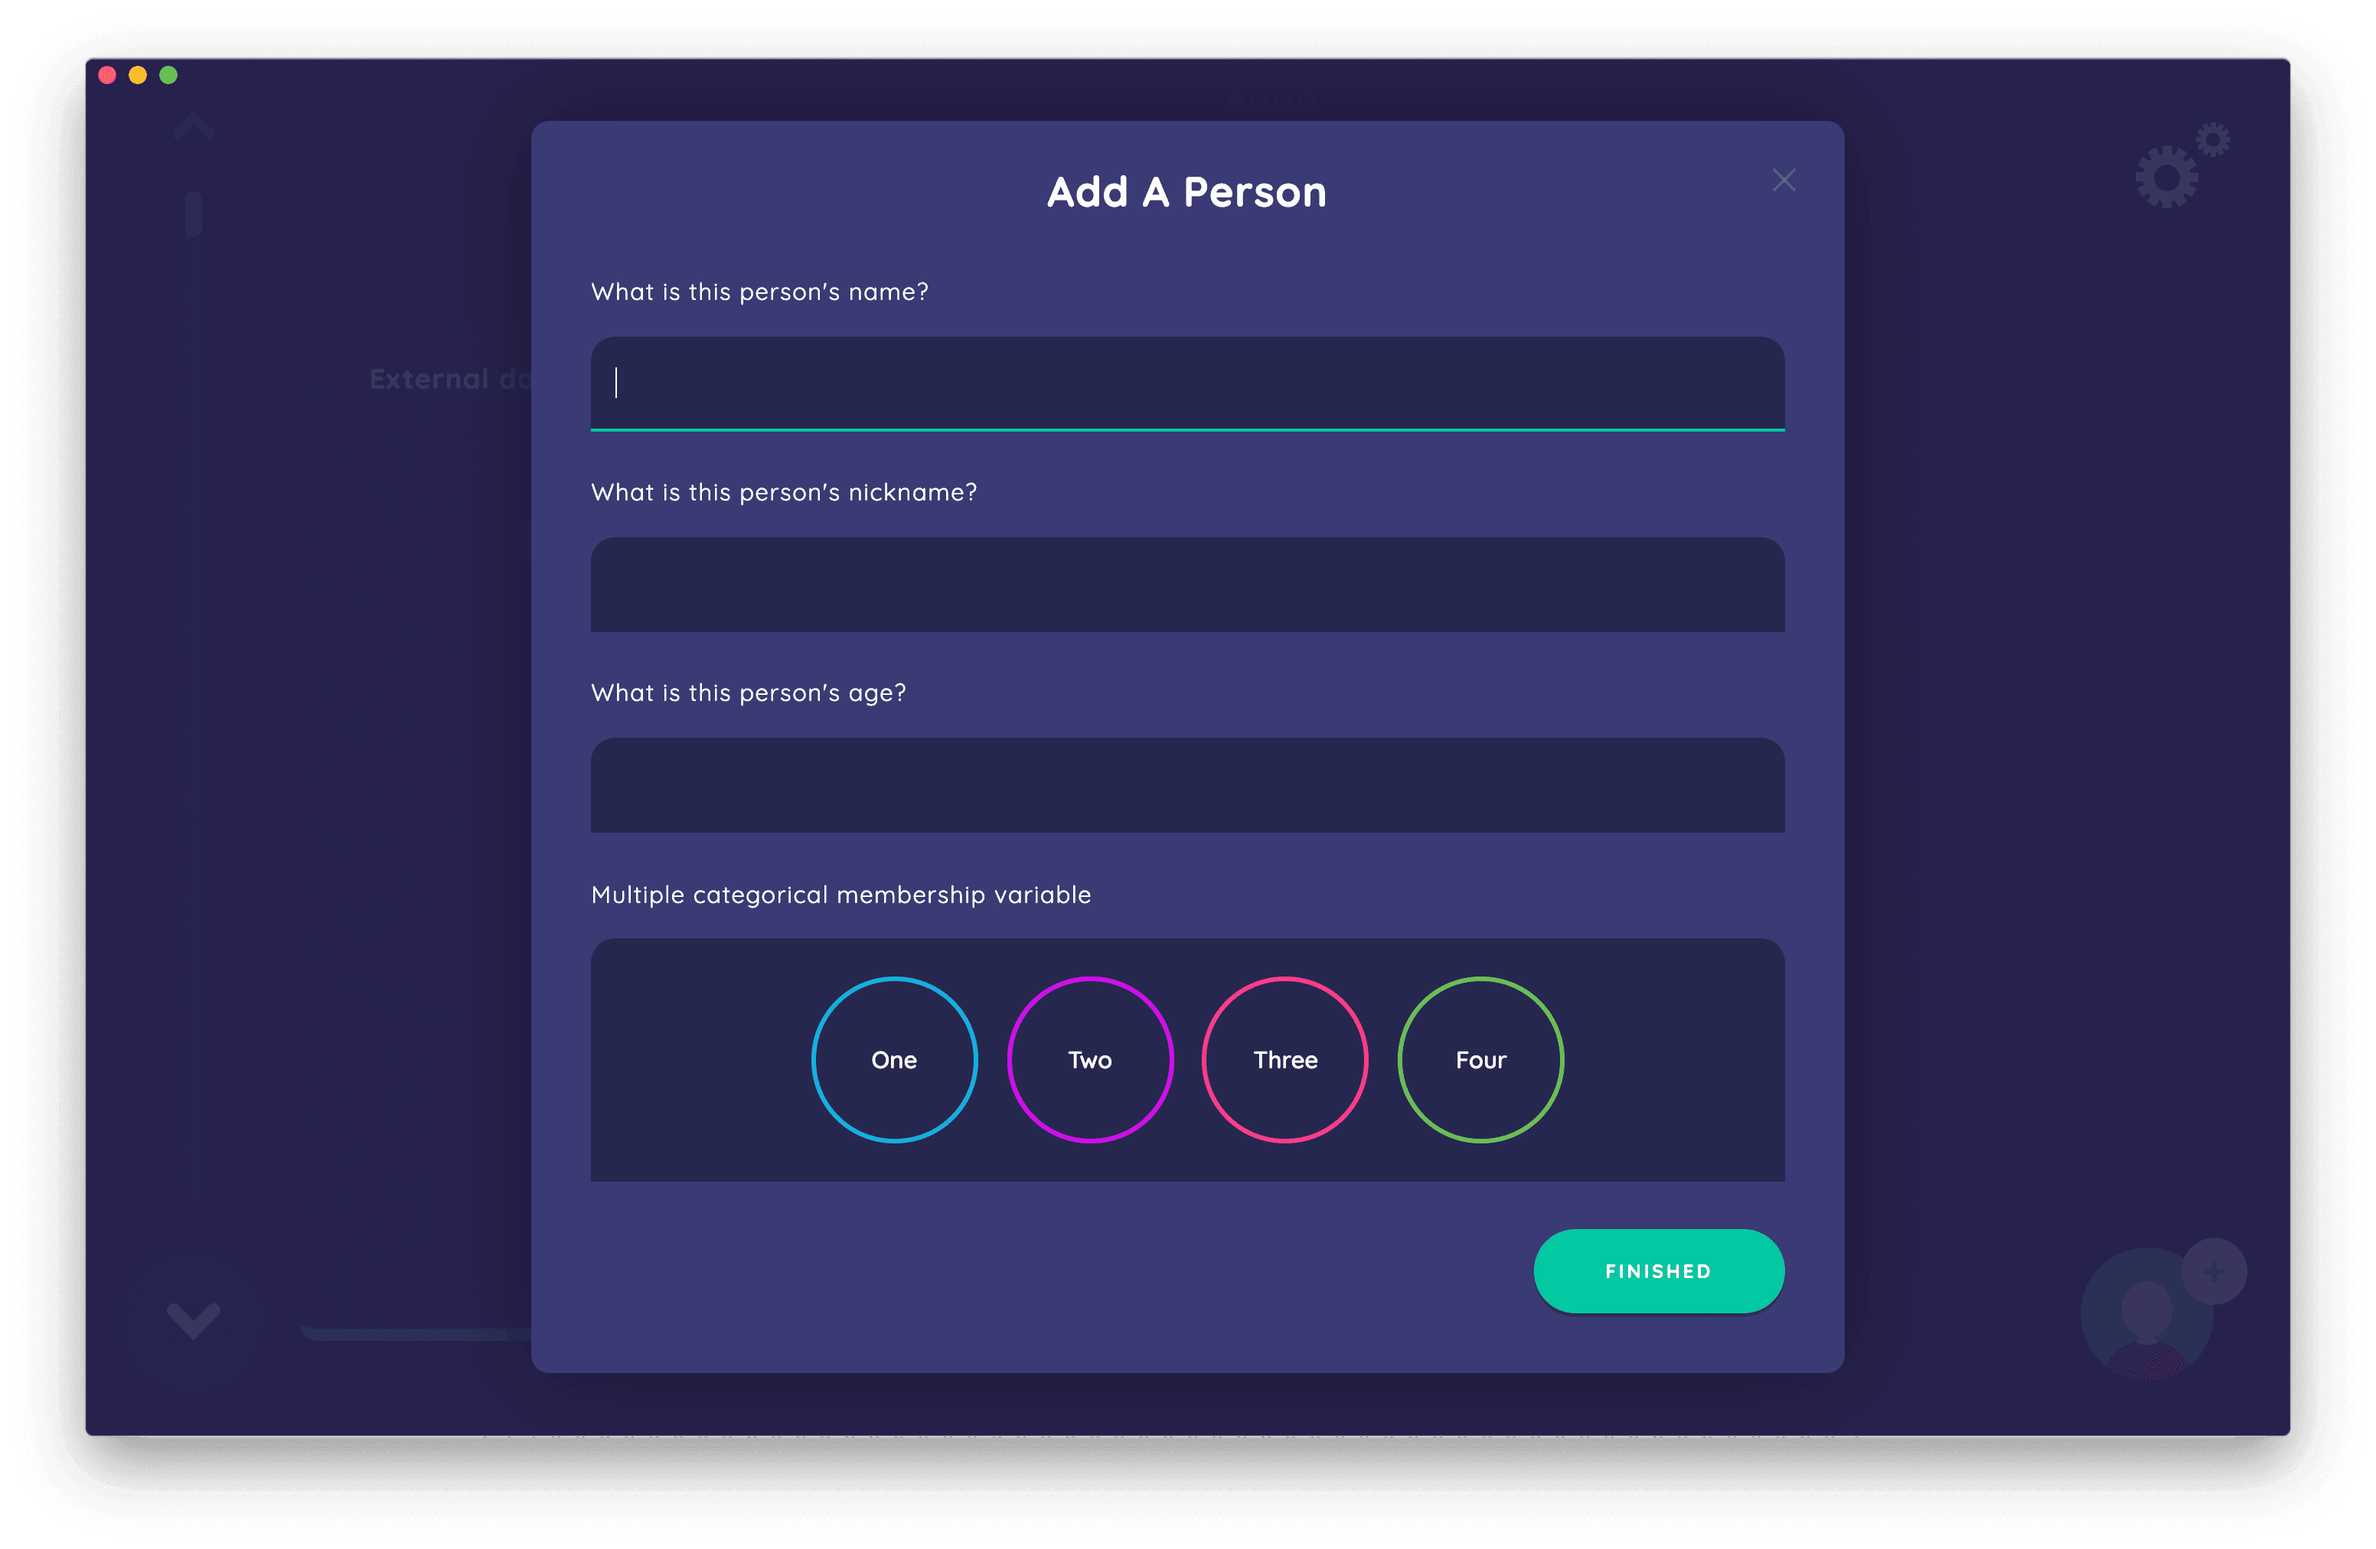
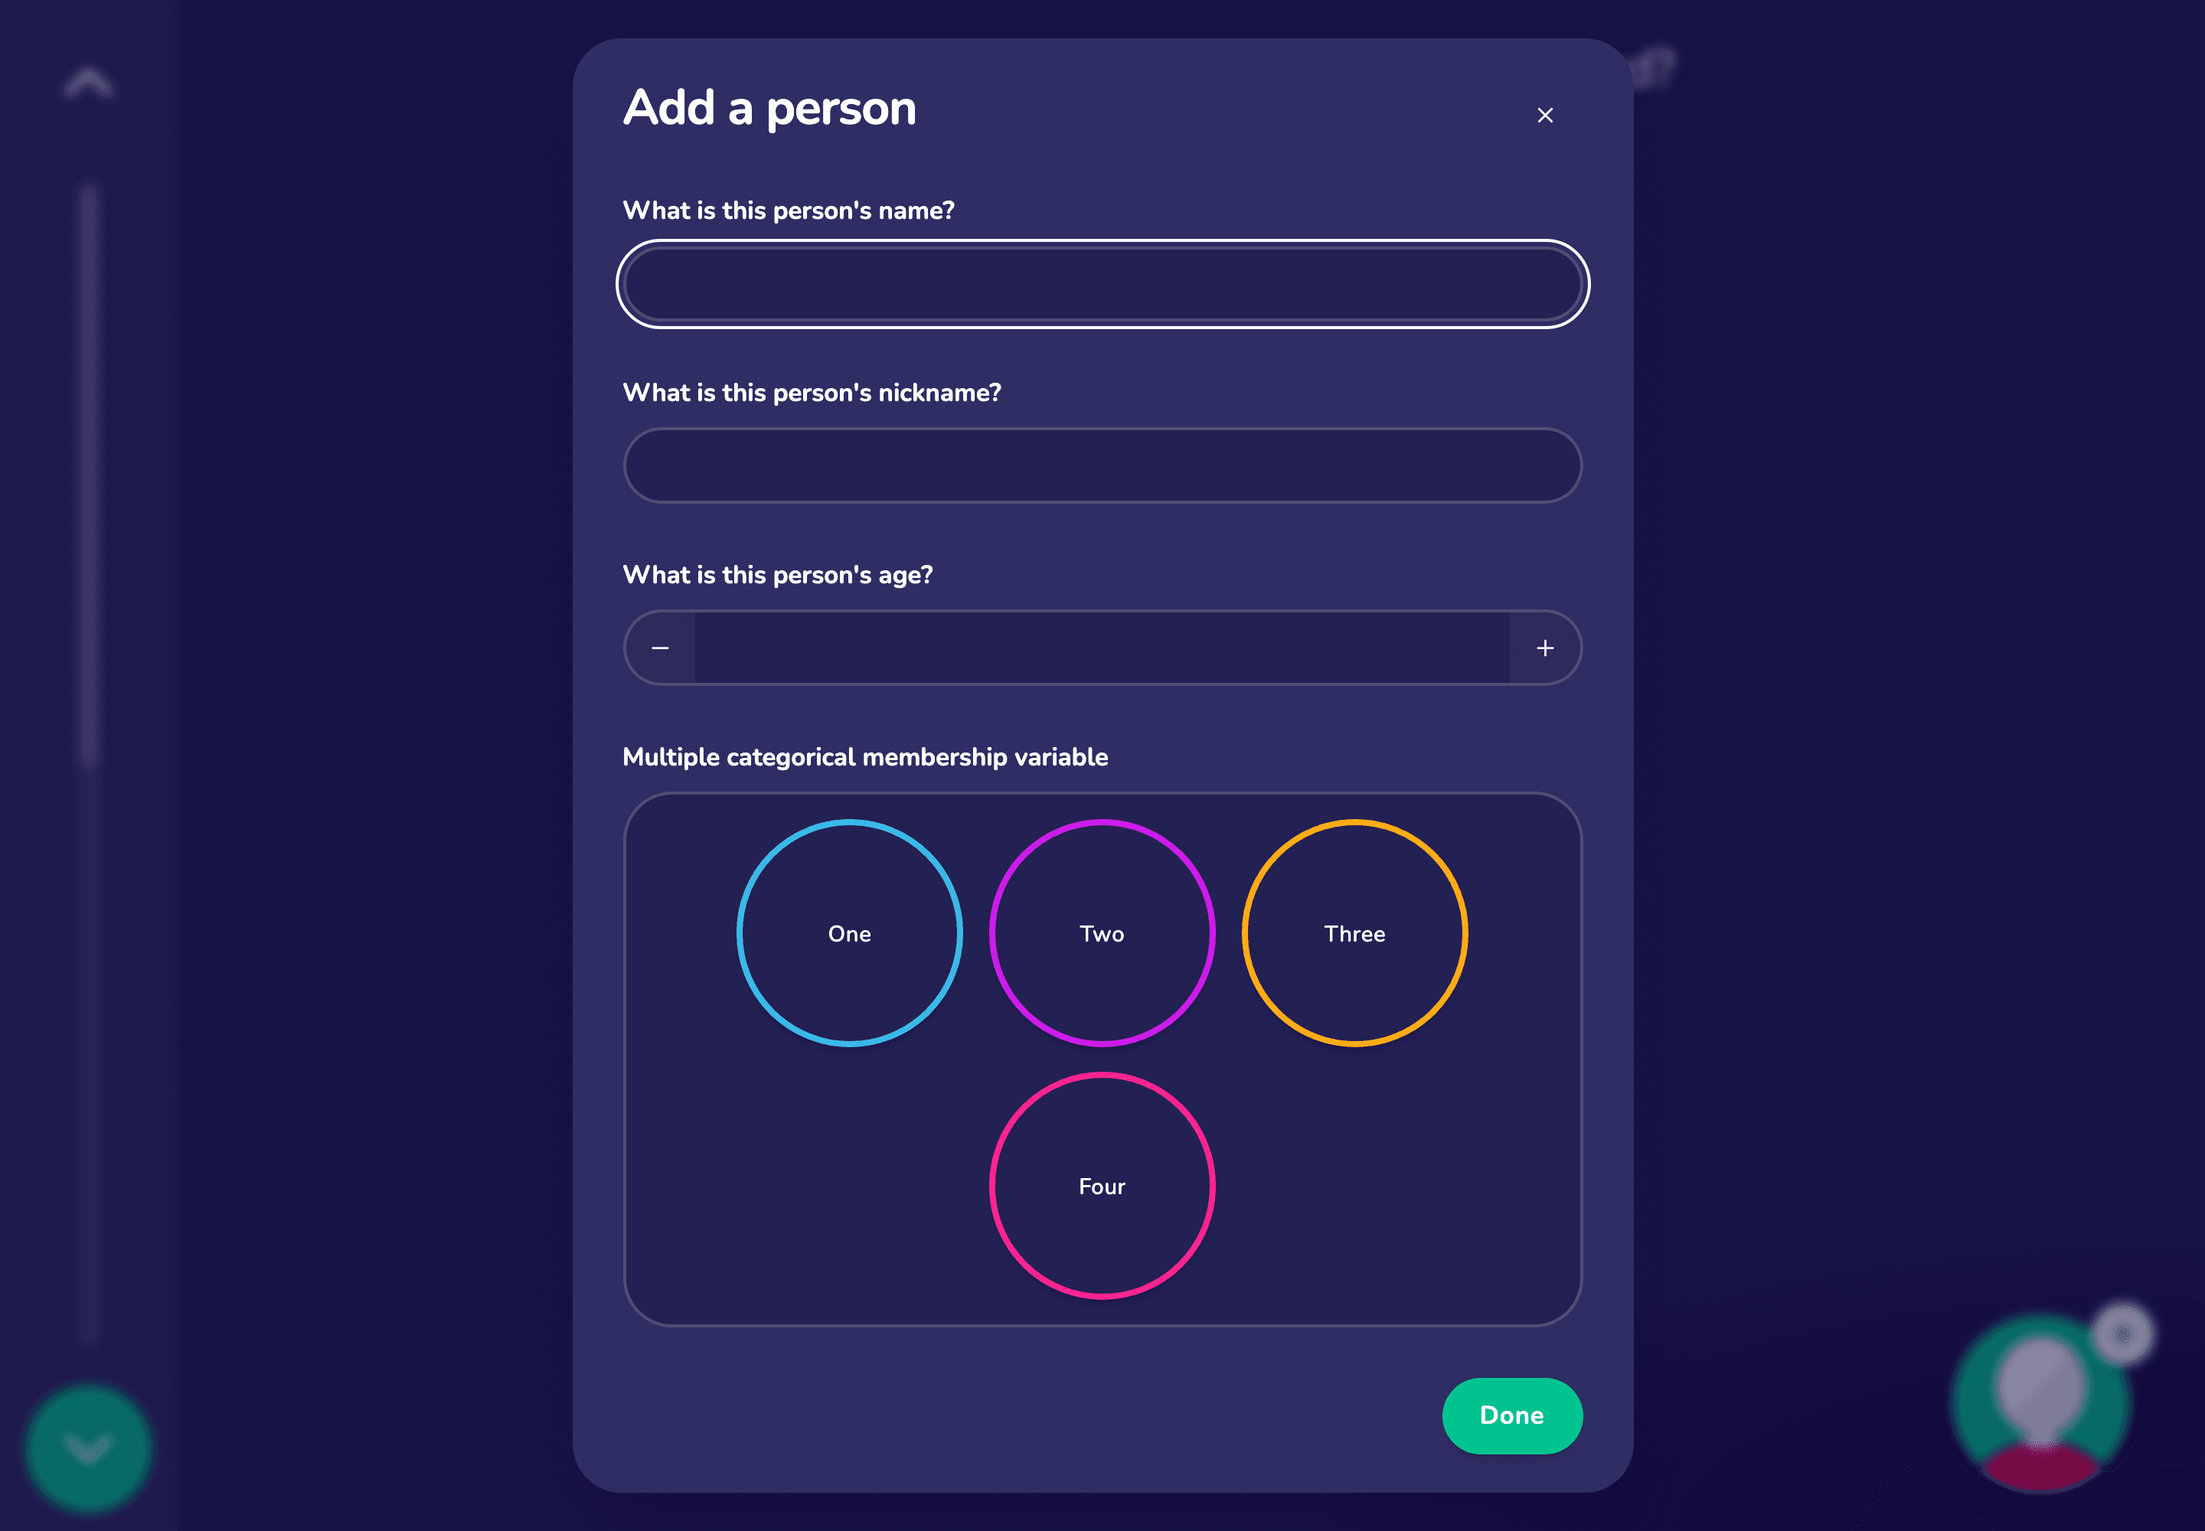
docs: recapture the Interviewer 6.x name generator screenshots
The name generator pages still showed Interviewer 6.x interview captures.
Recapture the annotated name generator, the add-person form and the quick
add field from the current interview runtime, with the same prompts, names
and fields.

diff --git a/apps/documentation/SCREENSHOTS_TO_REGENERATE.md b/apps/documentation/SCREENSHOTS_TO_REGENERATE.md
@@ -63,7 +63,7 @@ The Per Alter Form and Per Alter Edge Form interface pages no longer show
 `interface-documentation/per-alter-form/architect-intro.png` and
 `interface-documentation/per-edge-form/architect-intro.png`.
 
-## Interface documentation (Architect stage editors)
+## Interface documentation (Architect and interview captures)
 
 In November 2026 every Architect Classic stage-editor capture on the
 interface documentation pages was recaptured from Architect (schema 9),
@@ -78,8 +78,10 @@ prompts, fields, the census-tract GeoJSON and the Mapbox key):
 `per-edge-form/architect-form.png`, `geospatial/geojson.png`,
 `geospatial/selection-property.png` and `geospatial/upload-api-key.png`.
 
-Still outstanding on those pages are the Interviewer 6.x interview captures `name-generators/preview.png`, `name-generators/ng-form.png` and
-`name-generators/ng-quick.png`.
+The Interviewer 6.x interview captures on the name generator pages were
+recaptured from the current interview runtime in the same pass, with the same
+prompts, names and form fields: `name-generators/preview.png` (re-annotated),
+`name-generators/ng-form.png` and `name-generators/ng-quick.png`.
 
 ## Using Interviewer (Interviewer screenshots)
 
